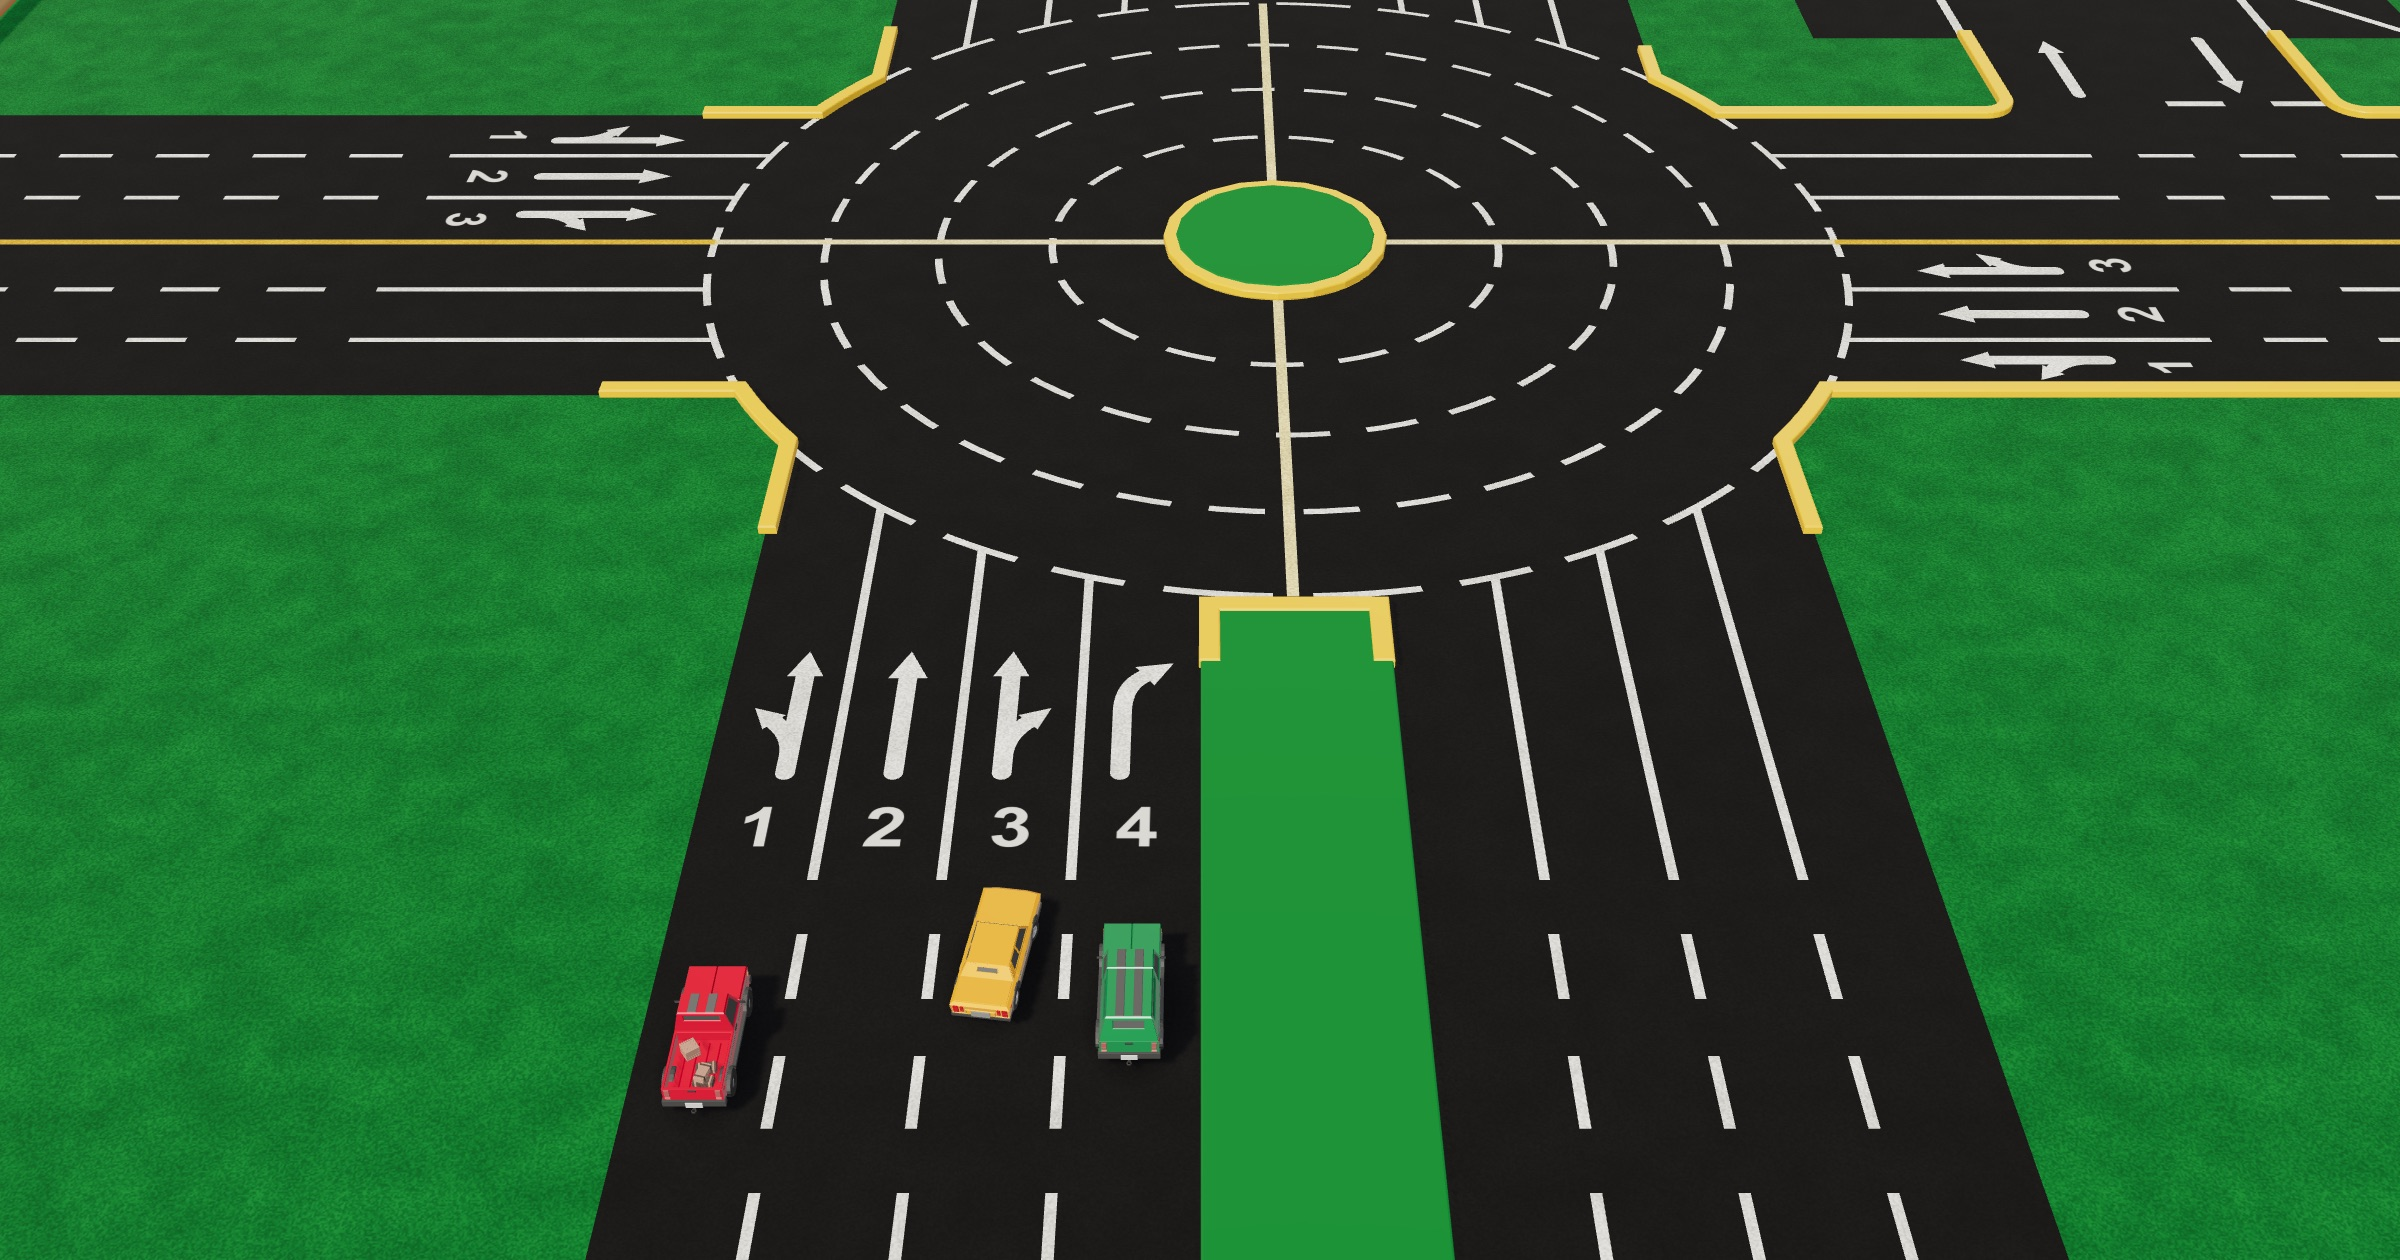
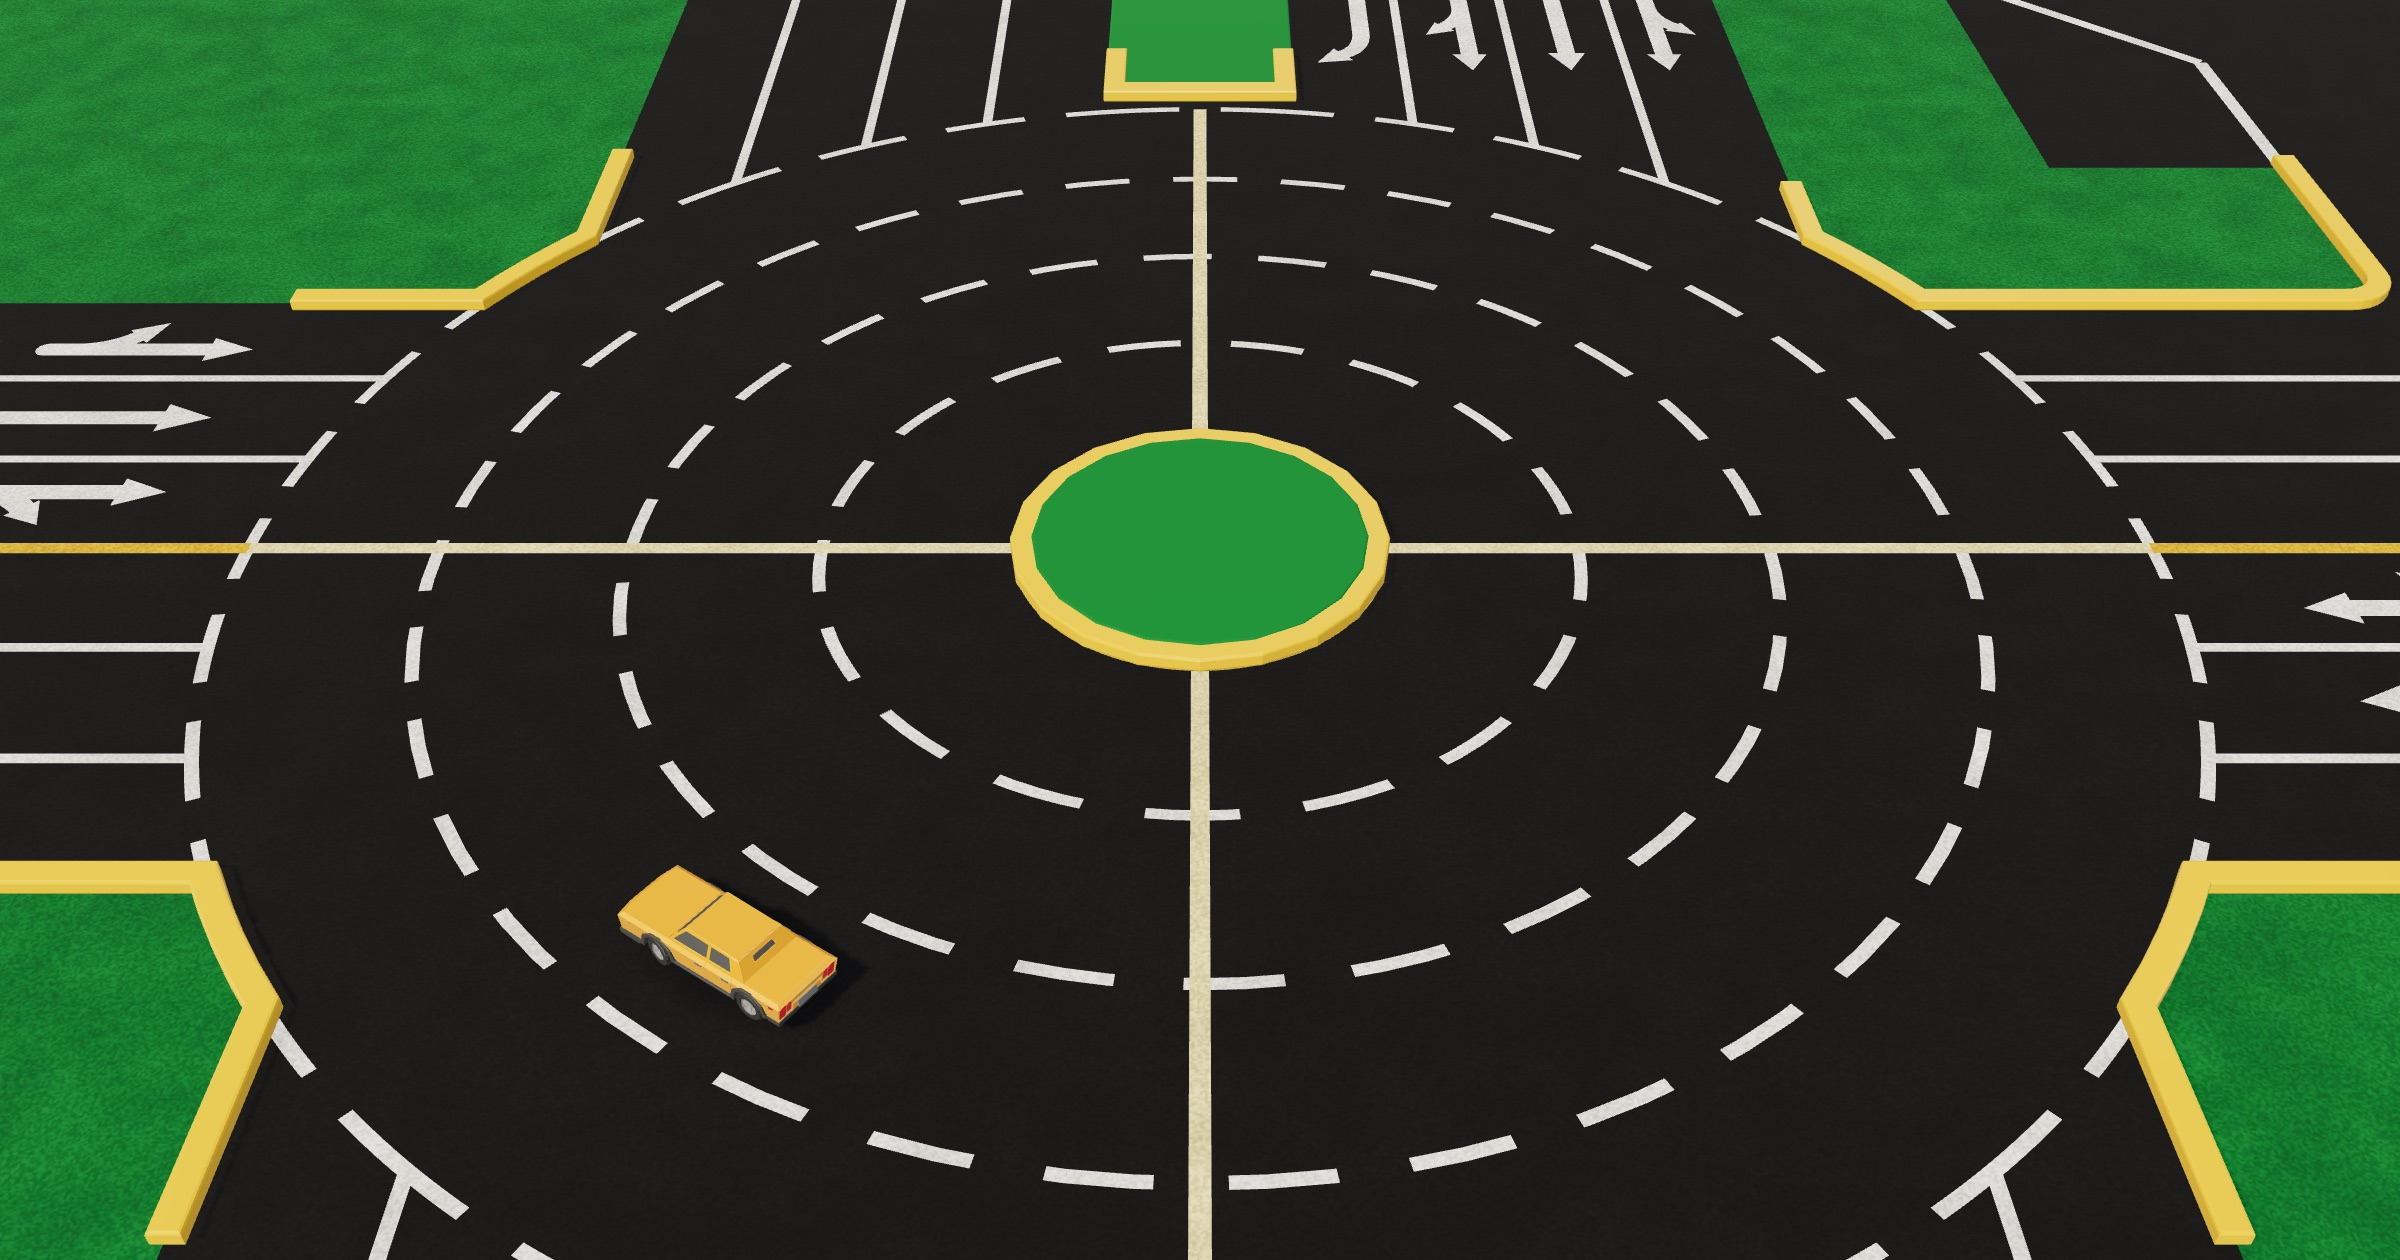
chore: board thumbnail shows the roundabout as a phone sees it
The 3D still now frames the whole roundabout and its pale yellow cross, as
the drive's view does on the ring, with the yellow car going round in lane 2
towards the first exit. Recaptured poster.jpg, poster-2400.jpg and the
board's social card from it. The earlier lane view is still available with
?x=-3&z=24&span=76&carx=-8.4.

diff --git a/app/routes/tools/og.tsx b/app/routes/tools/og.tsx
@@ -425,25 +425,30 @@ const STILL_CARS = [
 ] as const;
 
 const STILL = {
-  // The moment the game is about: four numbered lanes and the roundabout
-  // ahead, and a lane to choose. Seen from behind the car, as on a phone.
-  // Wide enough for the whole roundabout and its cross (2026-11-21).
+  // The roundabout as a phone shows it while driving round: the whole ring,
+  // its pale cross and every road's mouth, with the yellow car going round in
+  // lane 2 towards the first exit (owner, 2026-11-21). A landscape picture
+  // needs a little more width than the phone's 47 m to fit the ring top to
+  // bottom. Seen from the south, as on a phone.
   seat: "south",
-  x: -3,
-  z: 24,
-  span: 76,
-  car: { x: -8.4, z: 38, heading: 8 },
-  steer: 0.25,
-  // on the roundabout instead, with `?at=<degrees>`
-  bearing: 205,
+  x: 0,
+  z: 3,
+  span: 54,
+  // On the ring at this bearing, in degrees. `?carx=` stands it on a road
+  // instead (the earlier picture: `x=-3&z=24&span=76&carx=-8.4`).
+  onRing: true,
+  bearing: 215,
   lane: 2,
+  car: { x: -8.4, z: 38, heading: 8 },
+  // a right lock to follow ring lane 2 round the island
+  steer: 0.17,
 };
 
 /**
  * Not a social card either: the picture of the board game, shown wherever
  * there is a way into it (`board-thumb.tsx`), and inside the board's social
  * card above. It is the game's own table, at its best quality, with the
- * yellow car coming up to the roundabout. Captured by the same script, then
+ * yellow car going round the roundabout. Captured by the same script, then
  * compressed into `public/assets/board/poster.jpg`.
  */
 function Board3D() {
@@ -457,9 +462,10 @@ function Board3D() {
   const span = num("span", STILL.span);
   const bearing = (num("at", STILL.bearing) * Math.PI) / 180;
   const seat = (params.get("seat") ?? STILL.seat) as Seat;
-  // `carx`, `carz` and `carh` (degrees) stand the car somewhere else, and
-  // `at` puts it on the roundabout.
-  const onRing = params.get("at") !== null;
+  // `at` puts the car on the roundabout at that bearing; `carx`, `carz` and
+  // `carh` (degrees) stand it on a road instead.
+  const onRing =
+    params.get("at") !== null || (STILL.onRing && params.get("carx") === null);
   const carX = onRing ? null : num("carx", STILL.car.x);
   const carZ = num("carz", STILL.car.z);
   const carH = (num("carh", STILL.car.heading) * Math.PI) / 180;
